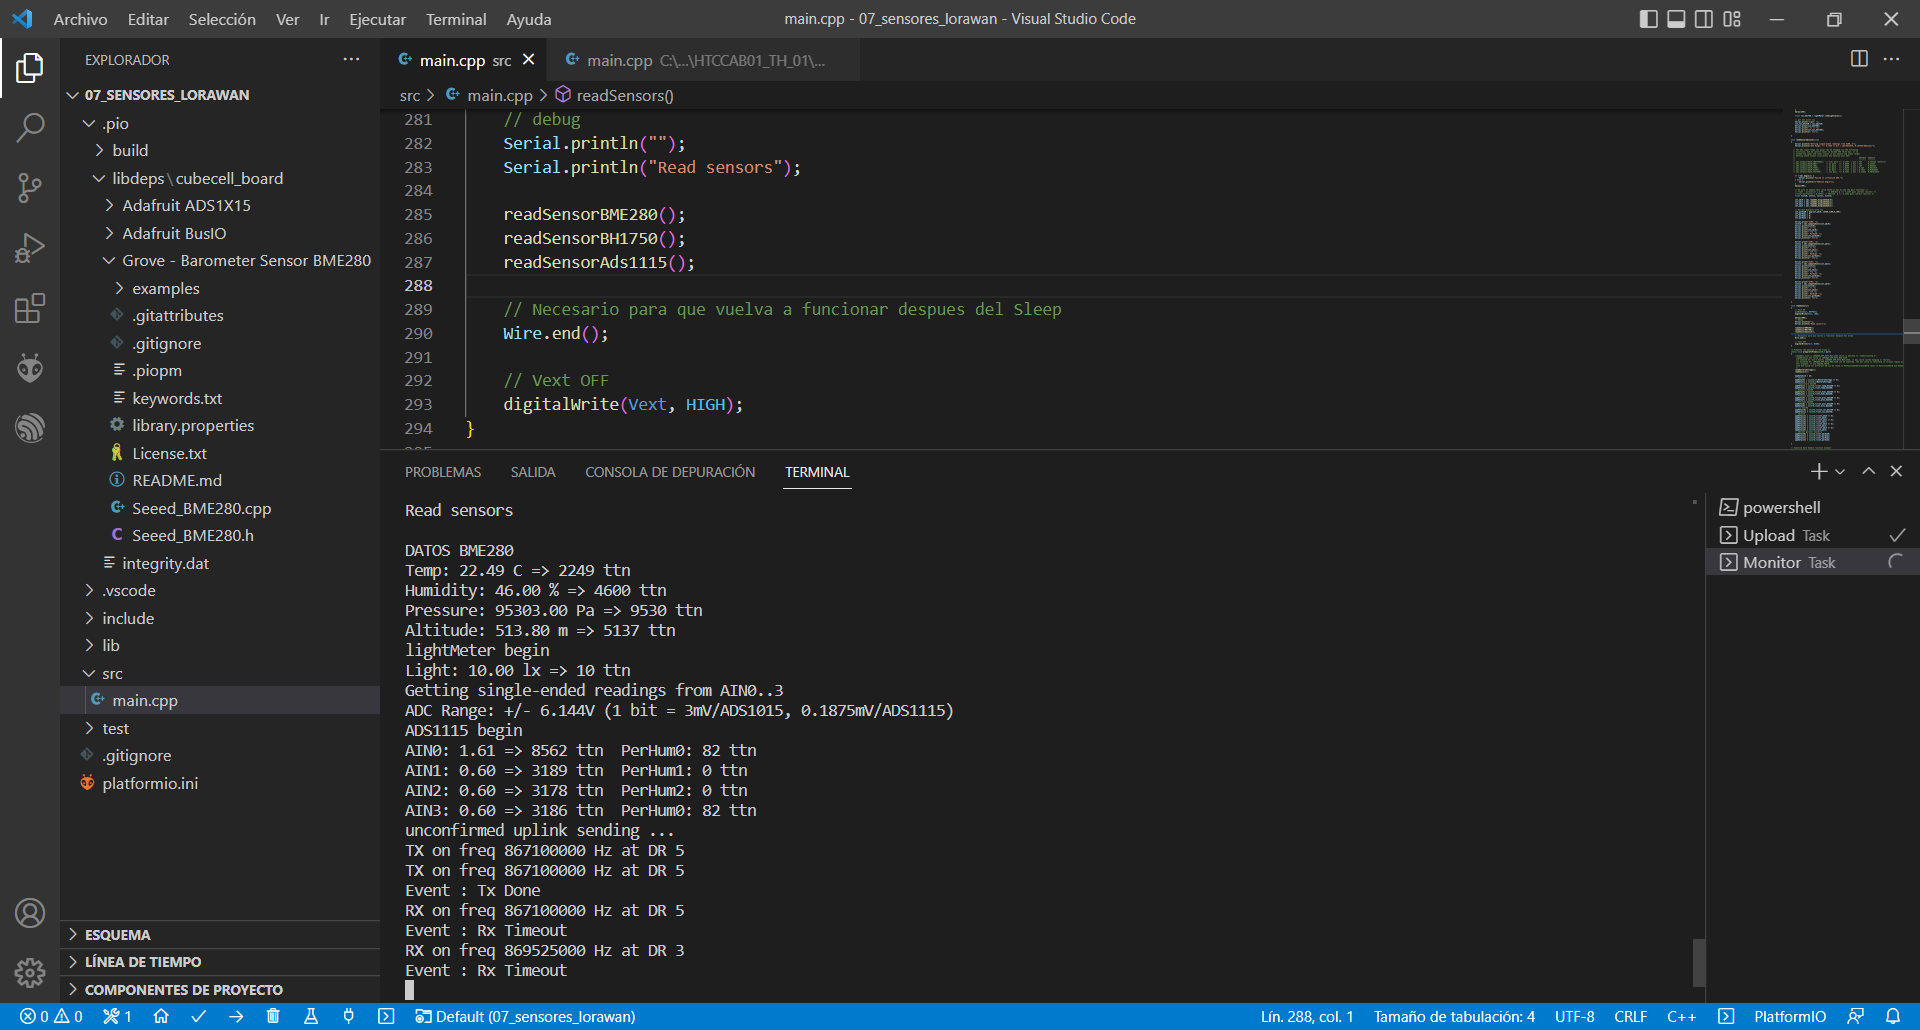
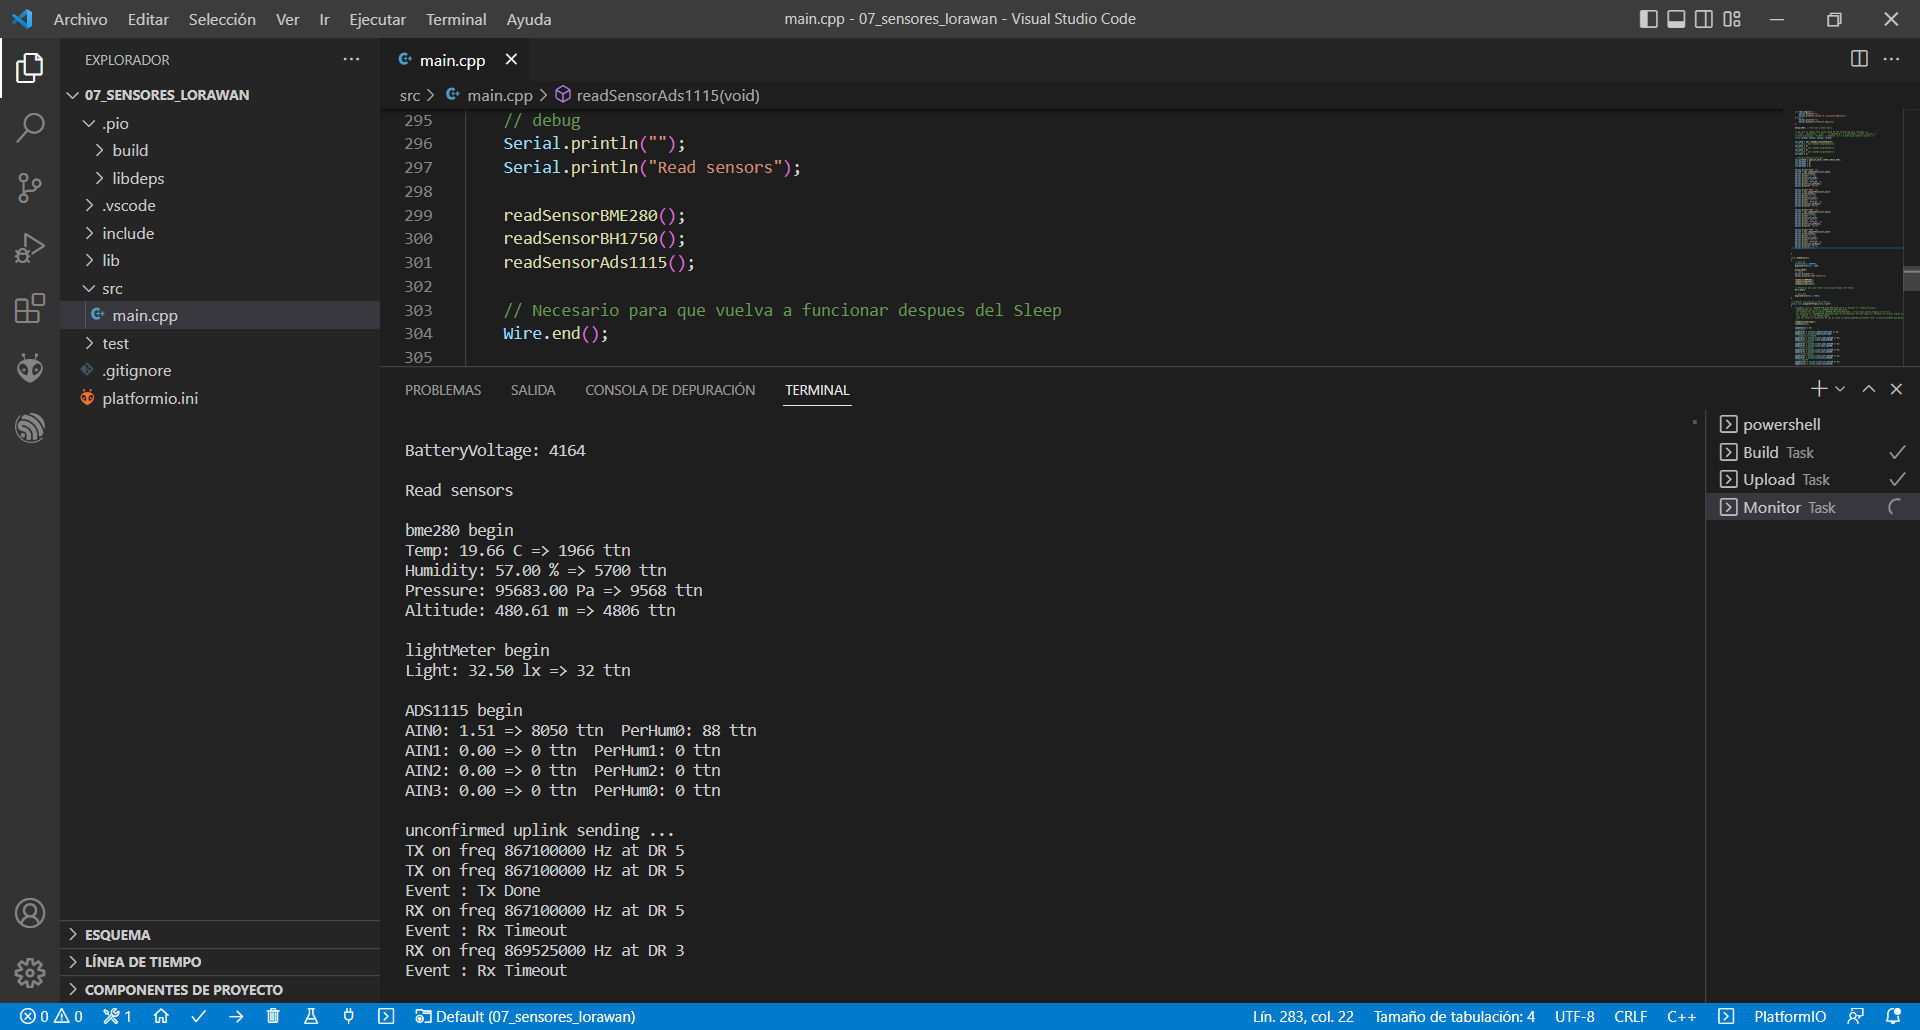
mejoras en docs commit

diff --git a/software/07_sensores_lorawan/src/main.cpp b/software/07_sensores_lorawan/src/main.cpp
@@ -60,7 +60,8 @@ LoRaMacRegion_t loraWanRegion = ACTIVE_REGION;
 DeviceClass_t loraWanClass = LORAWAN_CLASS;
 
 /*the application data transmission duty cycle.  value in [ms].*/
-uint32_t appTxDutyCycle = 30 * 1000;
+//uint32_t appTxDutyCycle = 60 * 60 * 1000;
+uint32_t appTxDutyCycle = 30 * 1000;		//Debug
 
 /*OTAA or ABP*/
 bool overTheAirActivation = LORAWAN_NETMODE;
@@ -114,14 +115,16 @@ void readSensorBME280(void)
 	if (!bme280.init())
 	{
 		// debug
-		Serial.println("Device error!");
+		Serial.println("");
+		Serial.println("Failed to initialize bme280");
+	} else{
+		Serial.println("");
+		Serial.println("bme280 begin");
 	}
-	delay(100);
+	
+	delay(100);		// Bad read without delay 
 
 	// Read sensor BME280
-	Serial.println("");
-	Serial.println("DATOS BME280");
-	
 	float temp_bme280 = bme280.getTemperature(); 
 	float humi_bme280 = bme280.getHumidity(); 
 	float pres_bme280 = bme280.getPressure();
@@ -166,11 +169,14 @@ void readSensorBH1750(void)
 
 	// Sensor BH1750
 	if (!lightMeter.begin()) {
-    	Serial.println("Failed to initialize lightMeter.");
+		Serial.println("");
+    	Serial.println("Failed to initialize lightMeter");
   	} else {
+		Serial.println("");
 		Serial.println(F("lightMeter begin"));
 	}
-	delay(100);
+
+	delay(100); // Bad read without delay 
 
 	float lux_bh1750 = lightMeter.readLightLevel(); 
 
@@ -186,8 +192,8 @@ void readSensorBH1750(void)
 
 void readSensorAds1115(void)
 {
-	Serial.println("Getting single-ended readings from AIN0..3");
-  	Serial.println("ADC Range: +/- 6.144V (1 bit = 3mV/ADS1015, 0.1875mV/ADS1115)");
+  //Serial.println("Getting single-ended readings from AIN0..3");
+  //Serial.println("ADC Range: +/- 6.144V (1 bit = 3mV/ADS1015, 0.1875mV/ADS1115)");
 
   // The ADC input range (or gain) can be changed via the following
   // functions, but be careful never to exceed VDD +0.3V max, or to
@@ -203,11 +209,14 @@ void readSensorAds1115(void)
   // ads.setGain(GAIN_SIXTEEN);    // 16x gain  +/- 0.256V  1 bit = 0.125mV  0.0078125mV
 
 	if (!ads.begin()) {
-    	Serial.println("Failed to initialize ADS.");
+		Serial.println("");
+    	Serial.println("Failed to initialize ADS1115");
   	} else {
+		Serial.println("");
 		Serial.println(F("ADS1115 begin"));
 	}
-	delay(100);
+	
+	delay(100); // Bad read without delay
 
 	/* Be sure to update this value based on the IC and the gain settings! */
 	// float   multiplier = 3.0F;    /* ADS1015 @ +/- 6.144V gain (12-bit results) */
@@ -215,9 +224,12 @@ void readSensorAds1115(void)
 	float volts0, volts1, volts2, volts3;
 
 	int_adc0 = ads.readADC_SingleEnded(0);
-	int_adc1 = ads.readADC_SingleEnded(1);
-	int_adc2 = ads.readADC_SingleEnded(2);
-	int_adc3 = ads.readADC_SingleEnded(3);
+	//int_adc1 = ads.readADC_SingleEnded(1);
+	int_adc1 = 0;
+	//int_adc2 = ads.readADC_SingleEnded(2);
+	int_adc2 = 0;	
+	//int_adc3 = ads.readADC_SingleEnded(3);
+	int_adc3 = 0;
 
 	// Percent Humidity only one 
 	int_perHum0 = map(int_adc0, 15400,7100,0,100);
@@ -262,8 +274,10 @@ void readSensorAds1115(void)
 	Serial.print(int_adc3);
 	Serial.print(" ttn ");
 	Serial.print(" PerHum0: ");
-	Serial.print(int_perHum0);
+	Serial.print(int_perHum3);
 	Serial.println(" ttn");
+	Serial.println("");
+
 
 }
 
